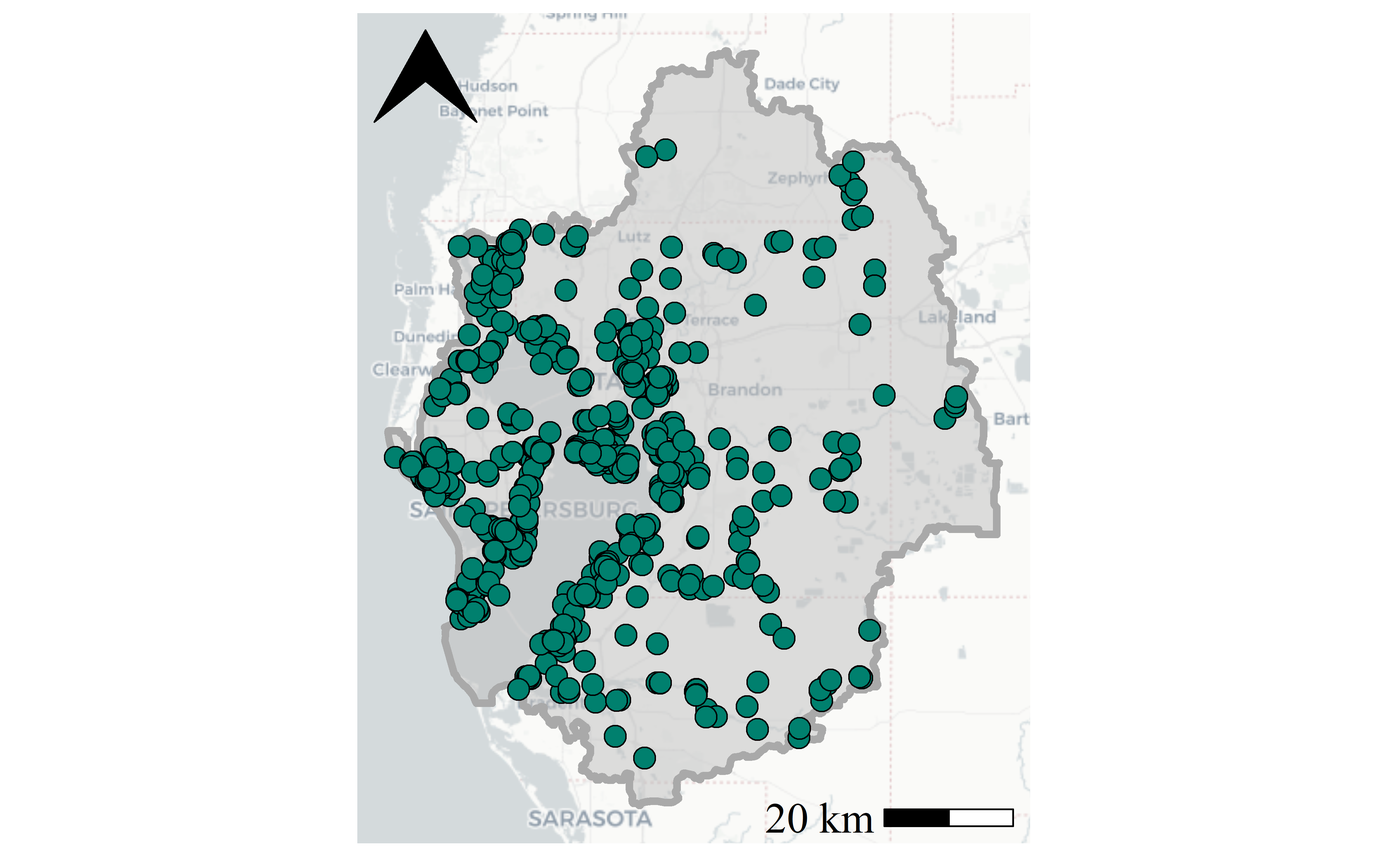
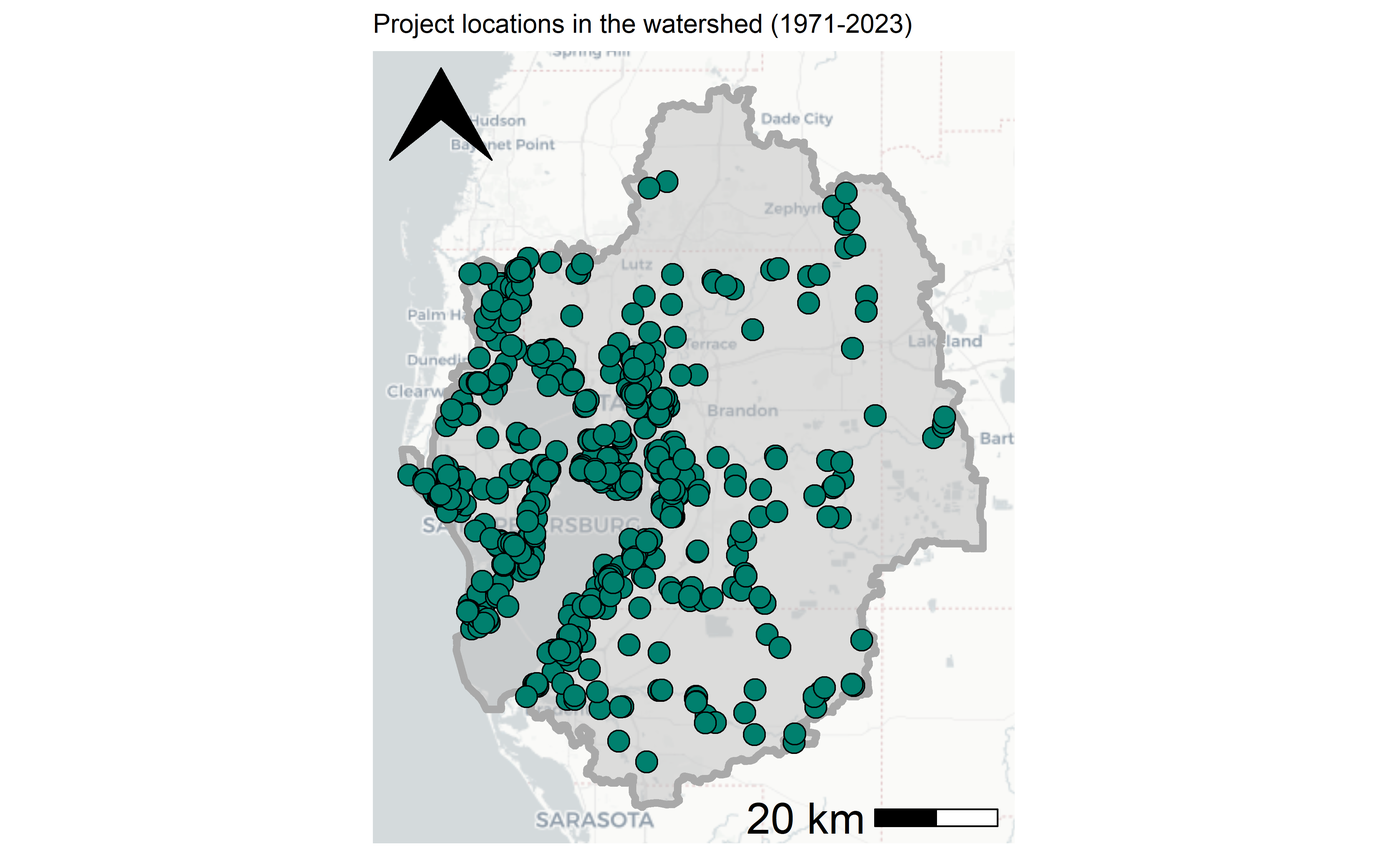
add title to map, fix #2

Changed region(s): [[0.25, 0.0, 0.75, 0.9984], [0.7188, 0.936, 0.75, 0.9672]]

diff --git a/docs/summaries.html b/docs/summaries.html
@@ -127,8 +127,8 @@ Note
 <div class="cell-output-display">
 
 <h5 class="title anchored">Projects in Tampa Bay by primary habitat (2006-2023)</h5>
-<div class="reactable html-widget html-fill-item-overflow-hidden html-fill-item" id="htmlwidget-0d8347148abf2f2f287f" style="width:auto;height:auto;"></div>
-<script type="application/json" data-for="htmlwidget-0d8347148abf2f2f287f">{"x":{"tag":{"name":"Reactable","attribs":{"data":{"rowgrp":["Artificial Reefs","Coastal Uplands","Forested Freshwater Wetlands","Hard Bottom","Intertidal Estuarine (Other)","Living Shorelines","Low-Salinity Salt Marsh","Mangrove Forests","Non-forested Freshwater Wetlands","Oyster Bars","Salt Barrens","Seagrasses","Tidal Tributaries","Uplands (Non-coastal)","Other","Total"],"tot":["3","34","45","9","40","14","49","39","48","14","2","12","11","293","1","614"],"Restoration (Ac / Mi)":["0 / < 1","12,107 / < 1","490 / < 1","23 / 2","194 / 162","7 / 3","159 / 5","404 / < 1","766 / < 1","300 / 1","42 / 0","3,100 / < 1","54 / < 1","4,835 / < 1","0 / < 1","22,480 / 176"],"Enhancement (Ac / Mi)":["0 / 0","2,093 / 2","1,238 / 2","0 / 0","273 / 16","0 / 0","144 / 0","1,140 / < 1","267 / 3","0 / 0","0 / 0","< 1 / < 1","1 / 1","132,750 / 41","0 / 0","137,906 / 67"]},"columns":[{"id":"rowgrp","name":"Habitat","type":"character","resizable":true,"minWidth":180,"style":[{"fontSize":14,"fontFamily":"roboto"},{"fontSize":14,"fontFamily":"roboto"},{"fontSize":14,"fontFamily":"roboto"},{"fontSize":14,"fontFamily":"roboto"},{"fontSize":14,"fontFamily":"roboto"},{"fontSize":14,"fontFamily":"roboto"},{"fontSize":14,"fontFamily":"roboto"},{"fontSize":14,"fontFamily":"roboto"},{"fontSize":14,"fontFamily":"roboto"},{"fontSize":14,"fontFamily":"roboto"},{"fontSize":14,"fontFamily":"roboto"},{"fontSize":14,"fontFamily":"roboto"},{"fontSize":14,"fontFamily":"roboto"},{"fontSize":14,"fontFamily":"roboto"},{"fontSize":14,"fontFamily":"roboto"},{"fontWeight":"bold","fontSize":14,"fontFamily":"roboto"}],"headerStyle":{"fontSize":14,"fontFamily":"roboto"},"className":"sticky left-col-1-bord","headerClassName":"sticky left-col-1-bord","footerClassName":"sticky left-col-1-bord"},{"id":"tot","name":"Total projects","type":"character","resizable":true,"minWidth":70,"style":[{"fontSize":14,"fontFamily":"roboto"},{"fontSize":14,"fontFamily":"roboto"},{"fontSize":14,"fontFamily":"roboto"},{"fontSize":14,"fontFamily":"roboto"},{"fontSize":14,"fontFamily":"roboto"},{"fontSize":14,"fontFamily":"roboto"},{"fontSize":14,"fontFamily":"roboto"},{"fontSize":14,"fontFamily":"roboto"},{"fontSize":14,"fontFamily":"roboto"},{"fontSize":14,"fontFamily":"roboto"},{"fontSize":14,"fontFamily":"roboto"},{"fontSize":14,"fontFamily":"roboto"},{"fontSize":14,"fontFamily":"roboto"},{"fontSize":14,"fontFamily":"roboto"},{"fontSize":14,"fontFamily":"roboto"},{"fontWeight":"bold","fontSize":14,"fontFamily":"roboto"}],"headerStyle":{"fontSize":14,"fontFamily":"roboto"}},{"id":"Restoration (Ac / Mi)","name":"Restoration (Ac / Mi)","type":"character","resizable":true,"minWidth":100,"style":[{"fontSize":14,"fontFamily":"roboto"},{"fontSize":14,"fontFamily":"roboto"},{"fontSize":14,"fontFamily":"roboto"},{"fontSize":14,"fontFamily":"roboto"},{"fontSize":14,"fontFamily":"roboto"},{"fontSize":14,"fontFamily":"roboto"},{"fontSize":14,"fontFamily":"roboto"},{"fontSize":14,"fontFamily":"roboto"},{"fontSize":14,"fontFamily":"roboto"},{"fontSize":14,"fontFamily":"roboto"},{"fontSize":14,"fontFamily":"roboto"},{"fontSize":14,"fontFamily":"roboto"},{"fontSize":14,"fontFamily":"roboto"},{"fontSize":14,"fontFamily":"roboto"},{"fontSize":14,"fontFamily":"roboto"},{"fontWeight":"bold","fontSize":14,"fontFamily":"roboto"}],"headerStyle":{"fontSize":14,"fontFamily":"roboto"}},{"id":"Enhancement (Ac / Mi)","name":"Enhancement (Ac / Mi)","type":"character","resizable":true,"minWidth":100,"style":[{"fontSize":14,"fontFamily":"roboto"},{"fontSize":14,"fontFamily":"roboto"},{"fontSize":14,"fontFamily":"roboto"},{"fontSize":14,"fontFamily":"roboto"},{"fontSize":14,"fontFamily":"roboto"},{"fontSize":14,"fontFamily":"roboto"},{"fontSize":14,"fontFamily":"roboto"},{"fontSize":14,"fontFamily":"roboto"},{"fontSize":14,"fontFamily":"roboto"},{"fontSize":14,"fontFamily":"roboto"},{"fontSize":14,"fontFamily":"roboto"},{"fontSize":14,"fontFamily":"roboto"},{"fontSize":14,"fontFamily":"roboto"},{"fontSize":14,"fontFamily":"roboto"},{"fontSize":14,"fontFamily":"roboto"},{"fontWeight":"bold","fontSize":14,"fontFamily":"roboto"}],"headerStyle":{"fontSize":14,"fontFamily":"roboto"}}],"defaultPageSize":16,"showPageSizeOptions":false,"highlight":true,"dataKey":"aa79c97826ffba7c87fc3f5f9c53353f"},"children":[]},"class":"reactR_markup"},"evals":[],"jsHooks":[]}</script>
+<div class="reactable html-widget html-fill-item-overflow-hidden html-fill-item" id="htmlwidget-1bc8f4dcec705fb9eadd" style="width:auto;height:auto;"></div>
+<script type="application/json" data-for="htmlwidget-1bc8f4dcec705fb9eadd">{"x":{"tag":{"name":"Reactable","attribs":{"data":{"rowgrp":["Artificial Reefs","Coastal Uplands","Forested Freshwater Wetlands","Hard Bottom","Intertidal Estuarine (Other)","Living Shorelines","Low-Salinity Salt Marsh","Mangrove Forests","Non-forested Freshwater Wetlands","Oyster Bars","Salt Barrens","Seagrasses","Tidal Tributaries","Uplands (Non-coastal)","Other","Total"],"tot":["3","34","45","9","40","14","49","39","48","14","2","12","11","293","1","614"],"Restoration (Ac / Mi)":["0 / < 1","12,107 / < 1","490 / < 1","23 / 2","194 / 162","7 / 3","159 / 5","404 / < 1","766 / < 1","300 / 1","42 / 0","3,100 / < 1","54 / < 1","4,835 / < 1","0 / < 1","22,480 / 176"],"Enhancement (Ac / Mi)":["0 / 0","2,093 / 2","1,238 / 2","0 / 0","273 / 16","0 / 0","144 / 0","1,140 / < 1","267 / 3","0 / 0","0 / 0","< 1 / < 1","1 / 1","132,750 / 41","0 / 0","137,906 / 67"]},"columns":[{"id":"rowgrp","name":"Habitat","type":"character","resizable":true,"minWidth":180,"style":[{"fontSize":14,"fontFamily":"roboto"},{"fontSize":14,"fontFamily":"roboto"},{"fontSize":14,"fontFamily":"roboto"},{"fontSize":14,"fontFamily":"roboto"},{"fontSize":14,"fontFamily":"roboto"},{"fontSize":14,"fontFamily":"roboto"},{"fontSize":14,"fontFamily":"roboto"},{"fontSize":14,"fontFamily":"roboto"},{"fontSize":14,"fontFamily":"roboto"},{"fontSize":14,"fontFamily":"roboto"},{"fontSize":14,"fontFamily":"roboto"},{"fontSize":14,"fontFamily":"roboto"},{"fontSize":14,"fontFamily":"roboto"},{"fontSize":14,"fontFamily":"roboto"},{"fontSize":14,"fontFamily":"roboto"},{"fontWeight":"bold","fontSize":14,"fontFamily":"roboto"}],"headerStyle":{"fontSize":14,"fontFamily":"roboto"},"className":"sticky left-col-1-bord","headerClassName":"sticky left-col-1-bord","footerClassName":"sticky left-col-1-bord"},{"id":"tot","name":"Total projects","type":"character","resizable":true,"minWidth":70,"style":[{"fontSize":14,"fontFamily":"roboto"},{"fontSize":14,"fontFamily":"roboto"},{"fontSize":14,"fontFamily":"roboto"},{"fontSize":14,"fontFamily":"roboto"},{"fontSize":14,"fontFamily":"roboto"},{"fontSize":14,"fontFamily":"roboto"},{"fontSize":14,"fontFamily":"roboto"},{"fontSize":14,"fontFamily":"roboto"},{"fontSize":14,"fontFamily":"roboto"},{"fontSize":14,"fontFamily":"roboto"},{"fontSize":14,"fontFamily":"roboto"},{"fontSize":14,"fontFamily":"roboto"},{"fontSize":14,"fontFamily":"roboto"},{"fontSize":14,"fontFamily":"roboto"},{"fontSize":14,"fontFamily":"roboto"},{"fontWeight":"bold","fontSize":14,"fontFamily":"roboto"}],"headerStyle":{"fontSize":14,"fontFamily":"roboto"}},{"id":"Restoration (Ac / Mi)","name":"Restoration (Ac / Mi)","type":"character","resizable":true,"minWidth":100,"style":[{"fontSize":14,"fontFamily":"roboto"},{"fontSize":14,"fontFamily":"roboto"},{"fontSize":14,"fontFamily":"roboto"},{"fontSize":14,"fontFamily":"roboto"},{"fontSize":14,"fontFamily":"roboto"},{"fontSize":14,"fontFamily":"roboto"},{"fontSize":14,"fontFamily":"roboto"},{"fontSize":14,"fontFamily":"roboto"},{"fontSize":14,"fontFamily":"roboto"},{"fontSize":14,"fontFamily":"roboto"},{"fontSize":14,"fontFamily":"roboto"},{"fontSize":14,"fontFamily":"roboto"},{"fontSize":14,"fontFamily":"roboto"},{"fontSize":14,"fontFamily":"roboto"},{"fontSize":14,"fontFamily":"roboto"},{"fontWeight":"bold","fontSize":14,"fontFamily":"roboto"}],"headerStyle":{"fontSize":14,"fontFamily":"roboto"}},{"id":"Enhancement (Ac / Mi)","name":"Enhancement (Ac / Mi)","type":"character","resizable":true,"minWidth":100,"style":[{"fontSize":14,"fontFamily":"roboto"},{"fontSize":14,"fontFamily":"roboto"},{"fontSize":14,"fontFamily":"roboto"},{"fontSize":14,"fontFamily":"roboto"},{"fontSize":14,"fontFamily":"roboto"},{"fontSize":14,"fontFamily":"roboto"},{"fontSize":14,"fontFamily":"roboto"},{"fontSize":14,"fontFamily":"roboto"},{"fontSize":14,"fontFamily":"roboto"},{"fontSize":14,"fontFamily":"roboto"},{"fontSize":14,"fontFamily":"roboto"},{"fontSize":14,"fontFamily":"roboto"},{"fontSize":14,"fontFamily":"roboto"},{"fontSize":14,"fontFamily":"roboto"},{"fontSize":14,"fontFamily":"roboto"},{"fontWeight":"bold","fontSize":14,"fontFamily":"roboto"}],"headerStyle":{"fontSize":14,"fontFamily":"roboto"}}],"defaultPageSize":16,"showPageSizeOptions":false,"highlight":true,"dataKey":"aa79c97826ffba7c87fc3f5f9c53353f"},"children":[]},"class":"reactR_markup"},"evals":[],"jsHooks":[]}</script>
 </div>
 </div>
 <p><br></p>
@@ -136,8 +136,8 @@ Note
 <div class="cell-output-display">
 
 <h5 class="title anchored">Projects in Tampa Bay by general habitat (1971-2023)</h5>
-<div class="reactable html-widget html-fill-item-overflow-hidden html-fill-item" id="htmlwidget-232dbd2dd39659bc68f2" style="width:auto;height:auto;"></div>
-<script type="application/json" data-for="htmlwidget-232dbd2dd39659bc68f2">{"x":{"tag":{"name":"Reactable","attribs":{"data":{"rowgrp":["Estuarine","Freshwater","Mixed","Uplands","Total"],"tot":["315","115","45","351","826"],"Restoration (Ac / Mi)":["5,238 / 173","1,433 / < 1","742 / 3","17,337 / 2","24,751 / 178"],"Enhancement (Ac / Mi)":["1,922 / 19","1,803 / 6","847 / 1","135,197 / 43","139,770 / 69"],"Protection (Ac / Mi)":["1 / 0","156 / 0","< 1 / 0","3,071 / 0","3,228 / 0"]},"columns":[{"id":"rowgrp","name":"Habitat","type":"character","resizable":true,"minWidth":80,"style":[{"fontSize":14,"fontFamily":"roboto"},{"fontSize":14,"fontFamily":"roboto"},{"fontSize":14,"fontFamily":"roboto"},{"fontSize":14,"fontFamily":"roboto"},{"fontWeight":"bold","fontSize":14,"fontFamily":"roboto"}],"headerStyle":{"fontSize":14,"fontFamily":"roboto"},"className":"sticky left-col-1-bord","headerClassName":"sticky left-col-1-bord","footerClassName":"sticky left-col-1-bord"},{"id":"tot","name":"Total projects","type":"character","resizable":true,"minWidth":70,"style":[{"fontSize":14,"fontFamily":"roboto"},{"fontSize":14,"fontFamily":"roboto"},{"fontSize":14,"fontFamily":"roboto"},{"fontSize":14,"fontFamily":"roboto"},{"fontWeight":"bold","fontSize":14,"fontFamily":"roboto"}],"headerStyle":{"fontSize":14,"fontFamily":"roboto"}},{"id":"Restoration (Ac / Mi)","name":"Restoration (Ac / Mi)","type":"character","resizable":true,"minWidth":100,"style":[{"fontSize":14,"fontFamily":"roboto"},{"fontSize":14,"fontFamily":"roboto"},{"fontSize":14,"fontFamily":"roboto"},{"fontSize":14,"fontFamily":"roboto"},{"fontWeight":"bold","fontSize":14,"fontFamily":"roboto"}],"headerStyle":{"fontSize":14,"fontFamily":"roboto"}},{"id":"Enhancement (Ac / Mi)","name":"Enhancement (Ac / Mi)","type":"character","resizable":true,"minWidth":100,"style":[{"fontSize":14,"fontFamily":"roboto"},{"fontSize":14,"fontFamily":"roboto"},{"fontSize":14,"fontFamily":"roboto"},{"fontSize":14,"fontFamily":"roboto"},{"fontWeight":"bold","fontSize":14,"fontFamily":"roboto"}],"headerStyle":{"fontSize":14,"fontFamily":"roboto"}},{"id":"Protection (Ac / Mi)","name":"Protection (Ac / Mi)","type":"character","resizable":true,"minWidth":100,"style":[{"fontSize":14,"fontFamily":"roboto"},{"fontSize":14,"fontFamily":"roboto"},{"fontSize":14,"fontFamily":"roboto"},{"fontSize":14,"fontFamily":"roboto"},{"fontWeight":"bold","fontSize":14,"fontFamily":"roboto"}],"headerStyle":{"fontSize":14,"fontFamily":"roboto"}}],"defaultPageSize":5,"showPageSizeOptions":false,"highlight":true,"dataKey":"4c58068f6f726a1c81b6d954224b8e9e"},"children":[]},"class":"reactR_markup"},"evals":[],"jsHooks":[]}</script>
+<div class="reactable html-widget html-fill-item-overflow-hidden html-fill-item" id="htmlwidget-41f16ddb3d653c7382fd" style="width:auto;height:auto;"></div>
+<script type="application/json" data-for="htmlwidget-41f16ddb3d653c7382fd">{"x":{"tag":{"name":"Reactable","attribs":{"data":{"rowgrp":["Estuarine","Freshwater","Mixed","Uplands","Total"],"tot":["315","115","45","351","826"],"Restoration (Ac / Mi)":["5,238 / 173","1,433 / < 1","742 / 3","17,337 / 2","24,751 / 178"],"Enhancement (Ac / Mi)":["1,922 / 19","1,803 / 6","847 / 1","135,197 / 43","139,770 / 69"],"Protection (Ac / Mi)":["1 / 0","156 / 0","< 1 / 0","3,071 / 0","3,228 / 0"]},"columns":[{"id":"rowgrp","name":"Habitat","type":"character","resizable":true,"minWidth":80,"style":[{"fontSize":14,"fontFamily":"roboto"},{"fontSize":14,"fontFamily":"roboto"},{"fontSize":14,"fontFamily":"roboto"},{"fontSize":14,"fontFamily":"roboto"},{"fontWeight":"bold","fontSize":14,"fontFamily":"roboto"}],"headerStyle":{"fontSize":14,"fontFamily":"roboto"},"className":"sticky left-col-1-bord","headerClassName":"sticky left-col-1-bord","footerClassName":"sticky left-col-1-bord"},{"id":"tot","name":"Total projects","type":"character","resizable":true,"minWidth":70,"style":[{"fontSize":14,"fontFamily":"roboto"},{"fontSize":14,"fontFamily":"roboto"},{"fontSize":14,"fontFamily":"roboto"},{"fontSize":14,"fontFamily":"roboto"},{"fontWeight":"bold","fontSize":14,"fontFamily":"roboto"}],"headerStyle":{"fontSize":14,"fontFamily":"roboto"}},{"id":"Restoration (Ac / Mi)","name":"Restoration (Ac / Mi)","type":"character","resizable":true,"minWidth":100,"style":[{"fontSize":14,"fontFamily":"roboto"},{"fontSize":14,"fontFamily":"roboto"},{"fontSize":14,"fontFamily":"roboto"},{"fontSize":14,"fontFamily":"roboto"},{"fontWeight":"bold","fontSize":14,"fontFamily":"roboto"}],"headerStyle":{"fontSize":14,"fontFamily":"roboto"}},{"id":"Enhancement (Ac / Mi)","name":"Enhancement (Ac / Mi)","type":"character","resizable":true,"minWidth":100,"style":[{"fontSize":14,"fontFamily":"roboto"},{"fontSize":14,"fontFamily":"roboto"},{"fontSize":14,"fontFamily":"roboto"},{"fontSize":14,"fontFamily":"roboto"},{"fontWeight":"bold","fontSize":14,"fontFamily":"roboto"}],"headerStyle":{"fontSize":14,"fontFamily":"roboto"}},{"id":"Protection (Ac / Mi)","name":"Protection (Ac / Mi)","type":"character","resizable":true,"minWidth":100,"style":[{"fontSize":14,"fontFamily":"roboto"},{"fontSize":14,"fontFamily":"roboto"},{"fontSize":14,"fontFamily":"roboto"},{"fontSize":14,"fontFamily":"roboto"},{"fontWeight":"bold","fontSize":14,"fontFamily":"roboto"}],"headerStyle":{"fontSize":14,"fontFamily":"roboto"}}],"defaultPageSize":5,"showPageSizeOptions":false,"highlight":true,"dataKey":"4c58068f6f726a1c81b6d954224b8e9e"},"children":[]},"class":"reactR_markup"},"evals":[],"jsHooks":[]}</script>
 </div>
 </div>
 <p><br></p>
@@ -145,8 +145,8 @@ Note
 <div class="cell-output-display">
 
 <h5 class="title anchored">Projects in Tampa Bay by primary habitat (2023)</h5>
-<div class="reactable html-widget html-fill-item-overflow-hidden html-fill-item" id="htmlwidget-b7bc4f929e3840c65f1c" style="width:auto;height:auto;"></div>
-<script type="application/json" data-for="htmlwidget-b7bc4f929e3840c65f1c">{"x":{"tag":{"name":"Reactable","attribs":{"data":{"rowgrp":["Artificial Reefs","Coastal Uplands","Forested Freshwater Wetlands","Hard Bottom","Intertidal Estuarine (Other)","Living Shorelines","Low-Salinity Salt Marsh","Mangrove Forests","Non-forested Freshwater Wetlands","Oyster Bars","Salt Barrens","Seagrasses","Tidal Tributaries","Uplands (Non-coastal)","Other","Total"],"tot":["0","12","0","0","1","2","0","3","6","1","0","3","1","36","0","65"],"Restoration (Ac / Mi)":["0 / 0","123 / 0","0 / 0","0 / 0","1 / 0","7 / < 1","0 / 0","3 / < 1","0 / < 1","< 1 / 0","0 / 0","4 / 0","< 1 / 0","23 / < 1","0 / 0","161 / 1"],"Enhancement (Ac / Mi)":["0 / 0","854 / 0","0 / 0","0 / 0","0 / 0","0 / 0","0 / 0","2 / 0","41 / < 1","0 / 0","0 / 0","0 / 0","0 / 0","29,933 / 0","0 / 0","30,829 / < 1"]},"columns":[{"id":"rowgrp","name":"Habitat","type":"character","resizable":true,"minWidth":180,"style":[{"fontSize":14,"fontFamily":"roboto"},{"fontSize":14,"fontFamily":"roboto"},{"fontSize":14,"fontFamily":"roboto"},{"fontSize":14,"fontFamily":"roboto"},{"fontSize":14,"fontFamily":"roboto"},{"fontSize":14,"fontFamily":"roboto"},{"fontSize":14,"fontFamily":"roboto"},{"fontSize":14,"fontFamily":"roboto"},{"fontSize":14,"fontFamily":"roboto"},{"fontSize":14,"fontFamily":"roboto"},{"fontSize":14,"fontFamily":"roboto"},{"fontSize":14,"fontFamily":"roboto"},{"fontSize":14,"fontFamily":"roboto"},{"fontSize":14,"fontFamily":"roboto"},{"fontSize":14,"fontFamily":"roboto"},{"fontWeight":"bold","fontSize":14,"fontFamily":"roboto"}],"headerStyle":{"fontSize":14,"fontFamily":"roboto"},"className":"sticky left-col-1-bord","headerClassName":"sticky left-col-1-bord","footerClassName":"sticky left-col-1-bord"},{"id":"tot","name":"Total projects","type":"character","resizable":true,"minWidth":70,"style":[{"fontSize":14,"fontFamily":"roboto"},{"fontSize":14,"fontFamily":"roboto"},{"fontSize":14,"fontFamily":"roboto"},{"fontSize":14,"fontFamily":"roboto"},{"fontSize":14,"fontFamily":"roboto"},{"fontSize":14,"fontFamily":"roboto"},{"fontSize":14,"fontFamily":"roboto"},{"fontSize":14,"fontFamily":"roboto"},{"fontSize":14,"fontFamily":"roboto"},{"fontSize":14,"fontFamily":"roboto"},{"fontSize":14,"fontFamily":"roboto"},{"fontSize":14,"fontFamily":"roboto"},{"fontSize":14,"fontFamily":"roboto"},{"fontSize":14,"fontFamily":"roboto"},{"fontSize":14,"fontFamily":"roboto"},{"fontWeight":"bold","fontSize":14,"fontFamily":"roboto"}],"headerStyle":{"fontSize":14,"fontFamily":"roboto"}},{"id":"Restoration (Ac / Mi)","name":"Restoration (Ac / Mi)","type":"character","resizable":true,"minWidth":100,"style":[{"fontSize":14,"fontFamily":"roboto"},{"fontSize":14,"fontFamily":"roboto"},{"fontSize":14,"fontFamily":"roboto"},{"fontSize":14,"fontFamily":"roboto"},{"fontSize":14,"fontFamily":"roboto"},{"fontSize":14,"fontFamily":"roboto"},{"fontSize":14,"fontFamily":"roboto"},{"fontSize":14,"fontFamily":"roboto"},{"fontSize":14,"fontFamily":"roboto"},{"fontSize":14,"fontFamily":"roboto"},{"fontSize":14,"fontFamily":"roboto"},{"fontSize":14,"fontFamily":"roboto"},{"fontSize":14,"fontFamily":"roboto"},{"fontSize":14,"fontFamily":"roboto"},{"fontSize":14,"fontFamily":"roboto"},{"fontWeight":"bold","fontSize":14,"fontFamily":"roboto"}],"headerStyle":{"fontSize":14,"fontFamily":"roboto"}},{"id":"Enhancement (Ac / Mi)","name":"Enhancement (Ac / Mi)","type":"character","resizable":true,"minWidth":100,"style":[{"fontSize":14,"fontFamily":"roboto"},{"fontSize":14,"fontFamily":"roboto"},{"fontSize":14,"fontFamily":"roboto"},{"fontSize":14,"fontFamily":"roboto"},{"fontSize":14,"fontFamily":"roboto"},{"fontSize":14,"fontFamily":"roboto"},{"fontSize":14,"fontFamily":"roboto"},{"fontSize":14,"fontFamily":"roboto"},{"fontSize":14,"fontFamily":"roboto"},{"fontSize":14,"fontFamily":"roboto"},{"fontSize":14,"fontFamily":"roboto"},{"fontSize":14,"fontFamily":"roboto"},{"fontSize":14,"fontFamily":"roboto"},{"fontSize":14,"fontFamily":"roboto"},{"fontSize":14,"fontFamily":"roboto"},{"fontWeight":"bold","fontSize":14,"fontFamily":"roboto"}],"headerStyle":{"fontSize":14,"fontFamily":"roboto"}}],"defaultPageSize":16,"showPageSizeOptions":false,"highlight":true,"dataKey":"8093e99644a35d54dc15eef43739f7d1"},"children":[]},"class":"reactR_markup"},"evals":[],"jsHooks":[]}</script>
+<div class="reactable html-widget html-fill-item-overflow-hidden html-fill-item" id="htmlwidget-c16bb44611387bc58e13" style="width:auto;height:auto;"></div>
+<script type="application/json" data-for="htmlwidget-c16bb44611387bc58e13">{"x":{"tag":{"name":"Reactable","attribs":{"data":{"rowgrp":["Artificial Reefs","Coastal Uplands","Forested Freshwater Wetlands","Hard Bottom","Intertidal Estuarine (Other)","Living Shorelines","Low-Salinity Salt Marsh","Mangrove Forests","Non-forested Freshwater Wetlands","Oyster Bars","Salt Barrens","Seagrasses","Tidal Tributaries","Uplands (Non-coastal)","Other","Total"],"tot":["0","12","0","0","1","2","0","3","6","1","0","3","1","36","0","65"],"Restoration (Ac / Mi)":["0 / 0","123 / 0","0 / 0","0 / 0","1 / 0","7 / < 1","0 / 0","3 / < 1","0 / < 1","< 1 / 0","0 / 0","4 / 0","< 1 / 0","23 / < 1","0 / 0","161 / 1"],"Enhancement (Ac / Mi)":["0 / 0","854 / 0","0 / 0","0 / 0","0 / 0","0 / 0","0 / 0","2 / 0","41 / < 1","0 / 0","0 / 0","0 / 0","0 / 0","29,933 / 0","0 / 0","30,829 / < 1"]},"columns":[{"id":"rowgrp","name":"Habitat","type":"character","resizable":true,"minWidth":180,"style":[{"fontSize":14,"fontFamily":"roboto"},{"fontSize":14,"fontFamily":"roboto"},{"fontSize":14,"fontFamily":"roboto"},{"fontSize":14,"fontFamily":"roboto"},{"fontSize":14,"fontFamily":"roboto"},{"fontSize":14,"fontFamily":"roboto"},{"fontSize":14,"fontFamily":"roboto"},{"fontSize":14,"fontFamily":"roboto"},{"fontSize":14,"fontFamily":"roboto"},{"fontSize":14,"fontFamily":"roboto"},{"fontSize":14,"fontFamily":"roboto"},{"fontSize":14,"fontFamily":"roboto"},{"fontSize":14,"fontFamily":"roboto"},{"fontSize":14,"fontFamily":"roboto"},{"fontSize":14,"fontFamily":"roboto"},{"fontWeight":"bold","fontSize":14,"fontFamily":"roboto"}],"headerStyle":{"fontSize":14,"fontFamily":"roboto"},"className":"sticky left-col-1-bord","headerClassName":"sticky left-col-1-bord","footerClassName":"sticky left-col-1-bord"},{"id":"tot","name":"Total projects","type":"character","resizable":true,"minWidth":70,"style":[{"fontSize":14,"fontFamily":"roboto"},{"fontSize":14,"fontFamily":"roboto"},{"fontSize":14,"fontFamily":"roboto"},{"fontSize":14,"fontFamily":"roboto"},{"fontSize":14,"fontFamily":"roboto"},{"fontSize":14,"fontFamily":"roboto"},{"fontSize":14,"fontFamily":"roboto"},{"fontSize":14,"fontFamily":"roboto"},{"fontSize":14,"fontFamily":"roboto"},{"fontSize":14,"fontFamily":"roboto"},{"fontSize":14,"fontFamily":"roboto"},{"fontSize":14,"fontFamily":"roboto"},{"fontSize":14,"fontFamily":"roboto"},{"fontSize":14,"fontFamily":"roboto"},{"fontSize":14,"fontFamily":"roboto"},{"fontWeight":"bold","fontSize":14,"fontFamily":"roboto"}],"headerStyle":{"fontSize":14,"fontFamily":"roboto"}},{"id":"Restoration (Ac / Mi)","name":"Restoration (Ac / Mi)","type":"character","resizable":true,"minWidth":100,"style":[{"fontSize":14,"fontFamily":"roboto"},{"fontSize":14,"fontFamily":"roboto"},{"fontSize":14,"fontFamily":"roboto"},{"fontSize":14,"fontFamily":"roboto"},{"fontSize":14,"fontFamily":"roboto"},{"fontSize":14,"fontFamily":"roboto"},{"fontSize":14,"fontFamily":"roboto"},{"fontSize":14,"fontFamily":"roboto"},{"fontSize":14,"fontFamily":"roboto"},{"fontSize":14,"fontFamily":"roboto"},{"fontSize":14,"fontFamily":"roboto"},{"fontSize":14,"fontFamily":"roboto"},{"fontSize":14,"fontFamily":"roboto"},{"fontSize":14,"fontFamily":"roboto"},{"fontSize":14,"fontFamily":"roboto"},{"fontWeight":"bold","fontSize":14,"fontFamily":"roboto"}],"headerStyle":{"fontSize":14,"fontFamily":"roboto"}},{"id":"Enhancement (Ac / Mi)","name":"Enhancement (Ac / Mi)","type":"character","resizable":true,"minWidth":100,"style":[{"fontSize":14,"fontFamily":"roboto"},{"fontSize":14,"fontFamily":"roboto"},{"fontSize":14,"fontFamily":"roboto"},{"fontSize":14,"fontFamily":"roboto"},{"fontSize":14,"fontFamily":"roboto"},{"fontSize":14,"fontFamily":"roboto"},{"fontSize":14,"fontFamily":"roboto"},{"fontSize":14,"fontFamily":"roboto"},{"fontSize":14,"fontFamily":"roboto"},{"fontSize":14,"fontFamily":"roboto"},{"fontSize":14,"fontFamily":"roboto"},{"fontSize":14,"fontFamily":"roboto"},{"fontSize":14,"fontFamily":"roboto"},{"fontSize":14,"fontFamily":"roboto"},{"fontSize":14,"fontFamily":"roboto"},{"fontWeight":"bold","fontSize":14,"fontFamily":"roboto"}],"headerStyle":{"fontSize":14,"fontFamily":"roboto"}}],"defaultPageSize":16,"showPageSizeOptions":false,"highlight":true,"dataKey":"8093e99644a35d54dc15eef43739f7d1"},"children":[]},"class":"reactR_markup"},"evals":[],"jsHooks":[]}</script>
 </div>
 </div>
 <p><br></p>
@@ -154,8 +154,8 @@ Note
 <div class="cell-output-display">
 
 <h5 class="title anchored">Projects in Tampa Bay by general habitat (2023)</h5>
-<div class="reactable html-widget html-fill-item-overflow-hidden html-fill-item" id="htmlwidget-5bb9f881f9d6dc993ae5" style="width:auto;height:auto;"></div>
-<script type="application/json" data-for="htmlwidget-5bb9f881f9d6dc993ae5">{"x":{"tag":{"name":"Reactable","attribs":{"data":{"rowgrp":["Estuarine","Freshwater","Mixed","Uplands","Total"],"tot":["9","6","3","53","71"],"Restoration (Ac / Mi)":["8 / < 1","0 / < 1","8 / 0","146 / < 1","161 / 1"],"Enhancement (Ac / Mi)":["2 / 0","41 / < 1","0 / 0","30,786 / 0","30,829 / < 1"],"Protection (Ac / Mi)":["1 / 0","0 / 0","< 1 / 0","1,019 / 0","1,020 / 0"]},"columns":[{"id":"rowgrp","name":"Habitat","type":"character","resizable":true,"minWidth":80,"style":[{"fontSize":14,"fontFamily":"roboto"},{"fontSize":14,"fontFamily":"roboto"},{"fontSize":14,"fontFamily":"roboto"},{"fontSize":14,"fontFamily":"roboto"},{"fontWeight":"bold","fontSize":14,"fontFamily":"roboto"}],"headerStyle":{"fontSize":14,"fontFamily":"roboto"},"className":"sticky left-col-1-bord","headerClassName":"sticky left-col-1-bord","footerClassName":"sticky left-col-1-bord"},{"id":"tot","name":"Total projects","type":"character","resizable":true,"minWidth":70,"style":[{"fontSize":14,"fontFamily":"roboto"},{"fontSize":14,"fontFamily":"roboto"},{"fontSize":14,"fontFamily":"roboto"},{"fontSize":14,"fontFamily":"roboto"},{"fontWeight":"bold","fontSize":14,"fontFamily":"roboto"}],"headerStyle":{"fontSize":14,"fontFamily":"roboto"}},{"id":"Restoration (Ac / Mi)","name":"Restoration (Ac / Mi)","type":"character","resizable":true,"minWidth":100,"style":[{"fontSize":14,"fontFamily":"roboto"},{"fontSize":14,"fontFamily":"roboto"},{"fontSize":14,"fontFamily":"roboto"},{"fontSize":14,"fontFamily":"roboto"},{"fontWeight":"bold","fontSize":14,"fontFamily":"roboto"}],"headerStyle":{"fontSize":14,"fontFamily":"roboto"}},{"id":"Enhancement (Ac / Mi)","name":"Enhancement (Ac / Mi)","type":"character","resizable":true,"minWidth":100,"style":[{"fontSize":14,"fontFamily":"roboto"},{"fontSize":14,"fontFamily":"roboto"},{"fontSize":14,"fontFamily":"roboto"},{"fontSize":14,"fontFamily":"roboto"},{"fontWeight":"bold","fontSize":14,"fontFamily":"roboto"}],"headerStyle":{"fontSize":14,"fontFamily":"roboto"}},{"id":"Protection (Ac / Mi)","name":"Protection (Ac / Mi)","type":"character","resizable":true,"minWidth":100,"style":[{"fontSize":14,"fontFamily":"roboto"},{"fontSize":14,"fontFamily":"roboto"},{"fontSize":14,"fontFamily":"roboto"},{"fontSize":14,"fontFamily":"roboto"},{"fontWeight":"bold","fontSize":14,"fontFamily":"roboto"}],"headerStyle":{"fontSize":14,"fontFamily":"roboto"}}],"defaultPageSize":5,"showPageSizeOptions":false,"highlight":true,"dataKey":"57c6593515cc5fe49c23c199c4bb030c"},"children":[]},"class":"reactR_markup"},"evals":[],"jsHooks":[]}</script>
+<div class="reactable html-widget html-fill-item-overflow-hidden html-fill-item" id="htmlwidget-429cec57b4cd9c531850" style="width:auto;height:auto;"></div>
+<script type="application/json" data-for="htmlwidget-429cec57b4cd9c531850">{"x":{"tag":{"name":"Reactable","attribs":{"data":{"rowgrp":["Estuarine","Freshwater","Mixed","Uplands","Total"],"tot":["9","6","3","53","71"],"Restoration (Ac / Mi)":["8 / < 1","0 / < 1","8 / 0","146 / < 1","161 / 1"],"Enhancement (Ac / Mi)":["2 / 0","41 / < 1","0 / 0","30,786 / 0","30,829 / < 1"],"Protection (Ac / Mi)":["1 / 0","0 / 0","< 1 / 0","1,019 / 0","1,020 / 0"]},"columns":[{"id":"rowgrp","name":"Habitat","type":"character","resizable":true,"minWidth":80,"style":[{"fontSize":14,"fontFamily":"roboto"},{"fontSize":14,"fontFamily":"roboto"},{"fontSize":14,"fontFamily":"roboto"},{"fontSize":14,"fontFamily":"roboto"},{"fontWeight":"bold","fontSize":14,"fontFamily":"roboto"}],"headerStyle":{"fontSize":14,"fontFamily":"roboto"},"className":"sticky left-col-1-bord","headerClassName":"sticky left-col-1-bord","footerClassName":"sticky left-col-1-bord"},{"id":"tot","name":"Total projects","type":"character","resizable":true,"minWidth":70,"style":[{"fontSize":14,"fontFamily":"roboto"},{"fontSize":14,"fontFamily":"roboto"},{"fontSize":14,"fontFamily":"roboto"},{"fontSize":14,"fontFamily":"roboto"},{"fontWeight":"bold","fontSize":14,"fontFamily":"roboto"}],"headerStyle":{"fontSize":14,"fontFamily":"roboto"}},{"id":"Restoration (Ac / Mi)","name":"Restoration (Ac / Mi)","type":"character","resizable":true,"minWidth":100,"style":[{"fontSize":14,"fontFamily":"roboto"},{"fontSize":14,"fontFamily":"roboto"},{"fontSize":14,"fontFamily":"roboto"},{"fontSize":14,"fontFamily":"roboto"},{"fontWeight":"bold","fontSize":14,"fontFamily":"roboto"}],"headerStyle":{"fontSize":14,"fontFamily":"roboto"}},{"id":"Enhancement (Ac / Mi)","name":"Enhancement (Ac / Mi)","type":"character","resizable":true,"minWidth":100,"style":[{"fontSize":14,"fontFamily":"roboto"},{"fontSize":14,"fontFamily":"roboto"},{"fontSize":14,"fontFamily":"roboto"},{"fontSize":14,"fontFamily":"roboto"},{"fontWeight":"bold","fontSize":14,"fontFamily":"roboto"}],"headerStyle":{"fontSize":14,"fontFamily":"roboto"}},{"id":"Protection (Ac / Mi)","name":"Protection (Ac / Mi)","type":"character","resizable":true,"minWidth":100,"style":[{"fontSize":14,"fontFamily":"roboto"},{"fontSize":14,"fontFamily":"roboto"},{"fontSize":14,"fontFamily":"roboto"},{"fontSize":14,"fontFamily":"roboto"},{"fontWeight":"bold","fontSize":14,"fontFamily":"roboto"}],"headerStyle":{"fontSize":14,"fontFamily":"roboto"}}],"defaultPageSize":5,"showPageSizeOptions":false,"highlight":true,"dataKey":"57c6593515cc5fe49c23c199c4bb030c"},"children":[]},"class":"reactR_markup"},"evals":[],"jsHooks":[]}</script>
 </div>
 </div>
 </section>
@@ -449,7 +449,7 @@ window.document.addEventListener("DOMContentLoaded", function (event) {
 });
 </script>
 </div> <!-- /content -->
-<script>var lightboxQuarto = GLightbox({"closeEffect":"zoom","selector":".lightbox","descPosition":"bottom","loop":true,"openEffect":"zoom"});</script>
+<script>var lightboxQuarto = GLightbox({"closeEffect":"zoom","descPosition":"bottom","openEffect":"zoom","selector":".lightbox","loop":true});</script>
 
 
 
